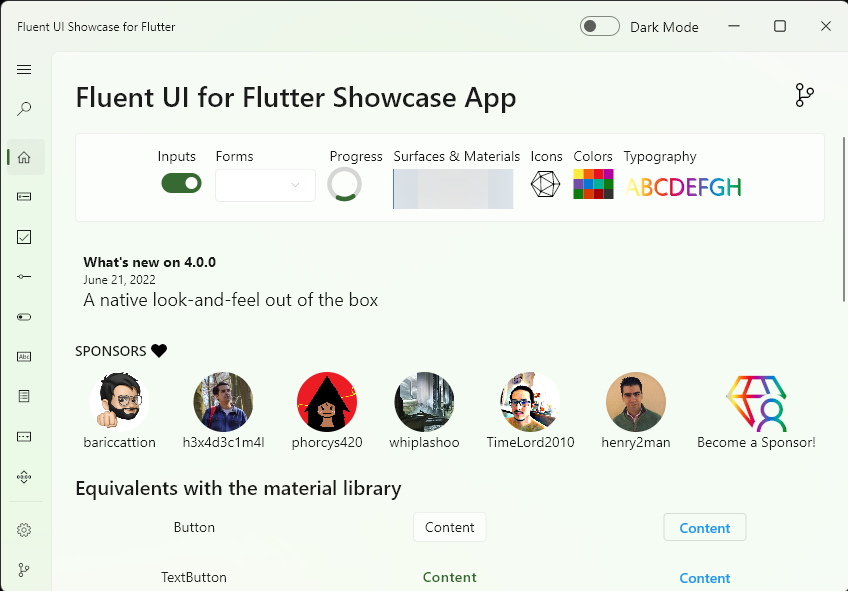
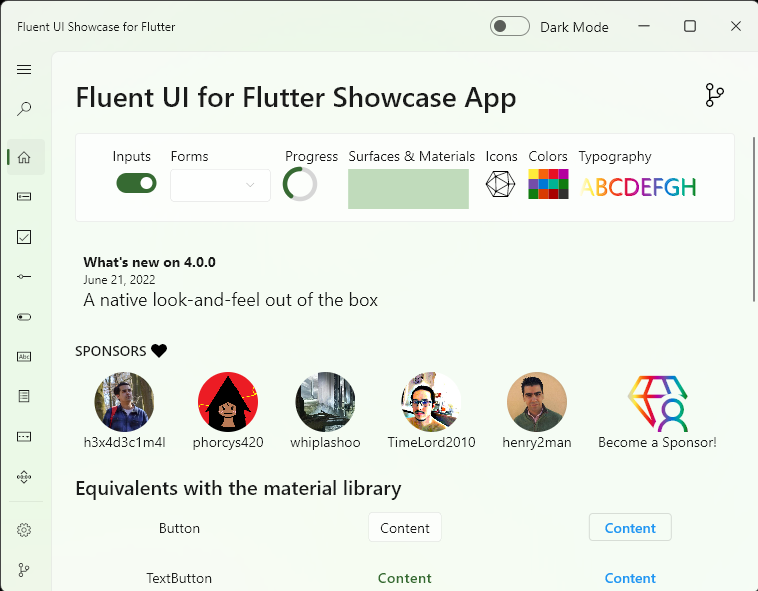
Update example/home

diff --git a/example/lib/screens/home.dart b/example/lib/screens/home.dart
@@ -83,14 +83,10 @@ class _HomePageState extends State<HomePage> with PageMixin {
                 height: 40,
                 width: 120,
                 child: Stack(children: [
-                  Container(width: 25, height: 50, color: Colors.blue.lightest),
-                  Positioned(
-                    right: 0,
-                    child: Container(
-                      width: 25,
-                      height: 50,
-                      color: Colors.blue.lightest,
-                    ),
+                  Container(
+                    width: 120,
+                    height: 50,
+                    color: theme.accentColor.lightest,
                   ),
                   const Positioned.fill(child: Acrylic(luminosityAlpha: 0.5)),
                 ]),

diff --git a/example/lib/models/sponsor.dart b/example/lib/models/sponsor.dart
@@ -1,11 +1,6 @@
 /// Current sponsors of the project <3
 const sponsors = [
   Sponsor(
-    username: 'bariccattion',
-    imageUrl: 'https://avatars.githubusercontent.com/u/19714408?v=4',
-    name: 'Rafael Gongora Bariccatti',
-  ),
-  Sponsor(
     username: 'h3x4d3c1m4l',
     imageUrl: 'https://avatars.githubusercontent.com/u/2611894?v=4',
     name: 'Sander in \'t Hout',
